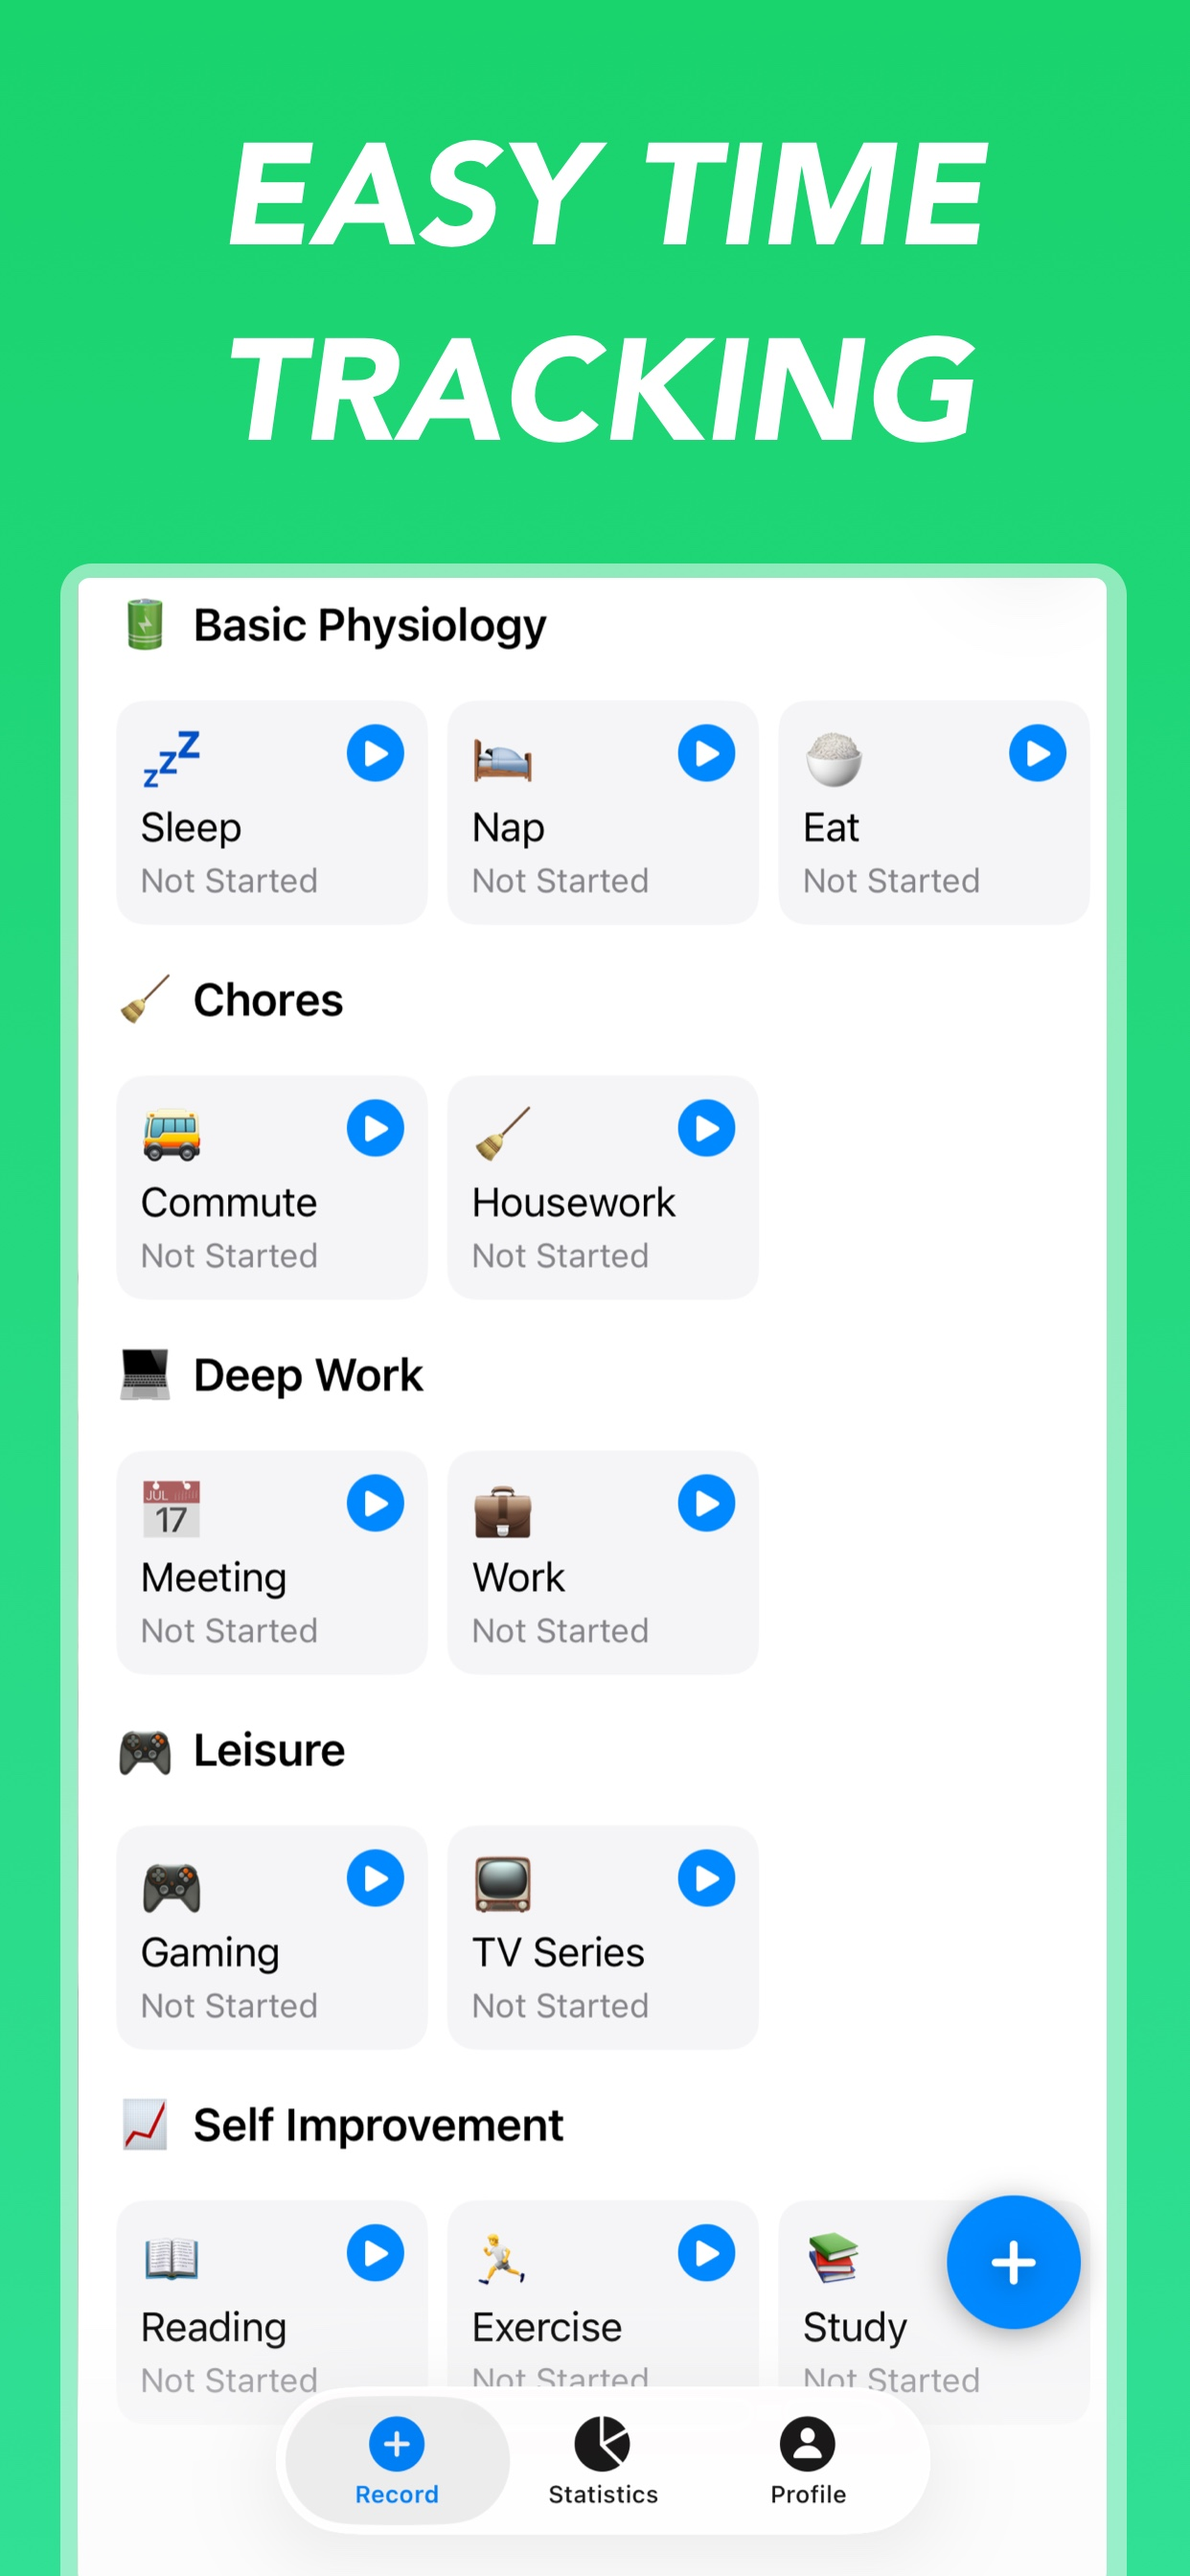
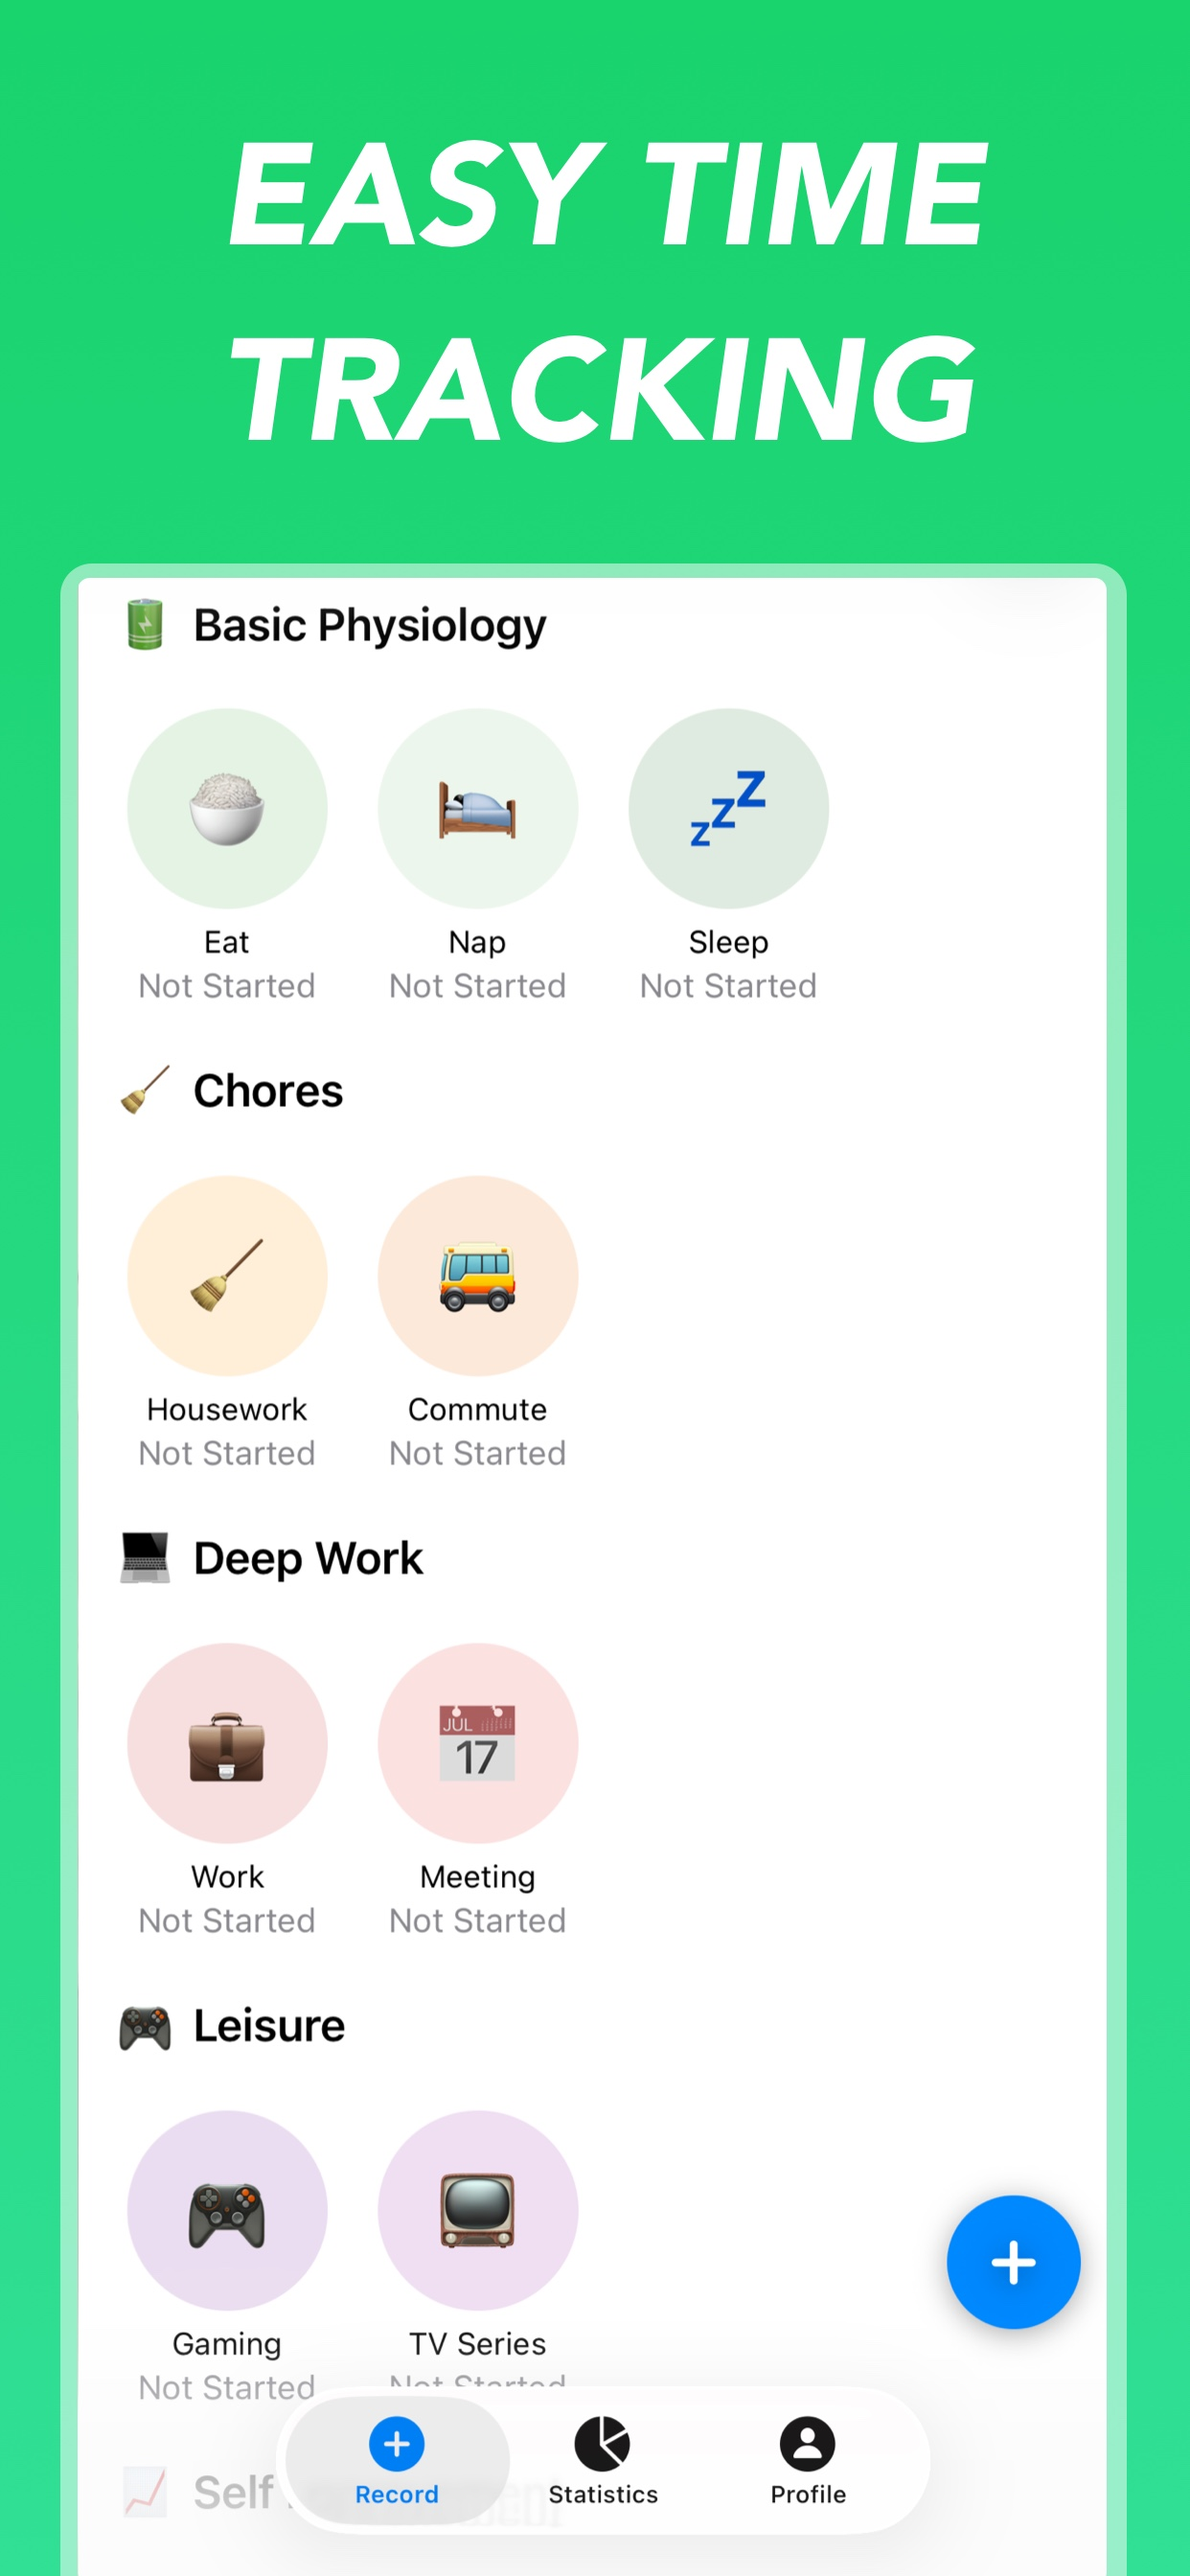
更新TimeLog V1.1.0

diff --git a/script.js b/script.js
@@ -812,7 +812,7 @@ function getTranslations() {
             'app2-download-url': 'https://apps.apple.com/cn/app/简单时间-微光护眼多彩主题全屏时钟/id1486062288',
             'app3-download-url': 'https://apps.apple.com/cn/app/计分板/id6502262077',
             'app4-download-url': 'https://apps.apple.com/app/id6755352189',
-            'footer-copyright': '© 2025 蜗牛的成长工具. 保留所有权利.',
+            'footer-copyright': '© 2026 蜗牛的成长工具. 保留所有权利.',
             
             // App2 页面翻译
             'app2-detail-title': '简时 - 详细介绍',
@@ -980,6 +980,9 @@ function getTranslations() {
             'app4-who-3': '自律者：精准掌控时间分配，实现目标不费力，成为更好的自己',
             'app4-highlights-title': '产品亮点',
             'app4-highlights-desc': '原生开发・无广告无冗余・极简操作流程不用再被时间推着走！立即下载--时光记，从 “记录时间” 到 “掌控时间”，让每一分钟都产生真正的价值～',
+            'app4-update-date-101': '2026年3月28日',
+            'app4-update-title-101': '界面优化',
+            'app4-update-101-desc': '优化了首页的样式，让界面看起来更清爽。',
             'app4-update-date-100': '2026年2月9日',
             'app4-update-title-100': '首次发布',
             'app4-update-100-desc': '时光记正式发布！开始记录你的时间与精力。',
@@ -1143,7 +1146,7 @@ function getTranslations() {
             'app2-download-url': 'https://apps.apple.com/us/app/justyclock-pomodoro-timer/id1486062288',
             'app3-download-url': 'https://apps.apple.com/us/app/scoreboard/id6502262077',
             'app4-download-url': 'https://apps.apple.com/app/id6755352189',
-            'footer-copyright': '© 2025 Snail\'s Growth Tools. All rights reserved.',
+            'footer-copyright': '© 2026 Snail\'s Growth Tools. All rights reserved.',
             
             // App2 page translations
             'app2-detail-title': 'ZenTime - Detailed Introduction',
@@ -1311,6 +1314,9 @@ function getTranslations() {
             'app4-who-3': 'Self-Disciplined People: Precisely control time allocation, achieve goals effortlessly',
             'app4-highlights-title': 'Product Highlights',
             'app4-highlights-desc': 'SwiftUI Native · No Ad · Minimalist Workflow. Stop being pushed by time! Download TimeLog now, move from "tracking time" to "mastering time".',
+            'app4-update-date-101': 'Mar 28, 2026',
+            'app4-update-title-101': 'UI Improvements',
+            'app4-update-101-desc': 'The style of the homepage has been optimized, making the interface look more elegant and clean.',
             'app4-update-date-100': 'Feb 9, 2026',
             'app4-update-title-100': 'Initial Release',
             'app4-update-100-desc': 'TimeLog officially released! Start tracking your time and energy.',

diff --git a/app4.html b/app4.html
@@ -201,6 +201,14 @@
                 <h2 class="section-title" data-i18n="updates-title">最新更新</h2>
                 <div class="update-timeline">
                     <div class="update-item">
+                        <div class="update-version">v1.1.0</div>
+                        <div class="update-date" data-i18n="app4-update-date-101">2026年3月28日</div>
+                        <div class="update-content">
+                            <h4 data-i18n="app4-update-title-101">界面优化</h4>
+                            <p data-i18n="app4-update-101-desc">优化了首页的样式，让界面看起来更清爽。</p>
+                        </div>
+                    </div>
+                    <div class="update-item">
                         <div class="update-version">v1.0.0</div>
                         <div class="update-date" data-i18n="app4-update-date-100">2024年12月29日</div>
                         <div class="update-content">
@@ -220,7 +228,7 @@
     <footer class="footer">
         <div class="container">
             <div class="footer-content">
-                <p data-i18n="footer-copyright">&copy; 2025 蜗牛的成长工具. 保留所有权利.</p>
+                <p data-i18n="footer-copyright">&copy; 2026 蜗牛的成长工具. 保留所有权利.</p>
                 <p class="icp-info">
                     <a href="https://beian.miit.gov.cn/" target="_blank" rel="noopener">陕ICP备2024041843号-1A</a>
                 </p>

diff --git a/app1.html b/app1.html
@@ -281,7 +281,7 @@
     <footer class="footer">
         <div class="container">
             <div class="footer-content">
-                <p data-i18n="footer-copyright">&copy; 2025 蜗牛的成长工具. 保留所有权利.</p>
+                <p data-i18n="footer-copyright">&copy; 2026 蜗牛的成长工具. 保留所有权利.</p>
                 <p class="icp-info">
                     <a href="https://beian.miit.gov.cn/" target="_blank" rel="noopener">陕ICP备2024041843号-1A</a>
                 </p>

diff --git a/privacy-app4.html b/privacy-app4.html
@@ -169,7 +169,7 @@
     <footer class="footer">
         <div class="container">
             <div class="footer-content">
-                <p data-i18n="footer-copyright">&copy; 2025 蜗牛的成长工具. 保留所有权利.</p>
+                <p data-i18n="footer-copyright">&copy; 2026 蜗牛的成长工具. 保留所有权利.</p>
                 <p class="icp-info">
                     <a href="https://beian.miit.gov.cn/" target="_blank" rel="noopener">陕ICP备2024041843号-1A</a>
                 </p>

diff --git a/terms-app4.html b/terms-app4.html
@@ -177,7 +177,7 @@
     <footer class="footer">
         <div class="container">
             <div class="footer-content">
-                <p data-i18n="footer-copyright">&copy; 2025 蜗牛的成长工具. 保留所有权利.</p>
+                <p data-i18n="footer-copyright">&copy; 2026 蜗牛的成长工具. 保留所有权利.</p>
                 <p class="icp-info">
                     <a href="https://beian.miit.gov.cn/" target="_blank" rel="noopener">陕ICP备2024041843号-1A</a>
                 </p>

diff --git a/app2.html b/app2.html
@@ -257,7 +257,7 @@
     <footer class="footer">
         <div class="container">
             <div class="footer-content">
-                <p data-i18n="footer-copyright">&copy; 2025 蜗牛的成长工具. 保留所有权利.</p>
+                <p data-i18n="footer-copyright">&copy; 2026 蜗牛的成长工具. 保留所有权利.</p>
                 <p class="icp-info">
                     <a href="https://beian.miit.gov.cn/" target="_blank" rel="noopener">陕ICP备2024041843号-2</a>
                 </p>

diff --git a/app3.html b/app3.html
@@ -264,7 +264,7 @@
     <footer class="footer">
         <div class="container">
             <div class="footer-content">
-                <p data-i18n="footer-copyright">&copy; 2025 蜗牛的成长工具. 保留所有权利.</p>
+                <p data-i18n="footer-copyright">&copy; 2026 蜗牛的成长工具. 保留所有权利.</p>
                 <p class="icp-info">
                     <a href="https://beian.miit.gov.cn/" target="_blank" rel="noopener">陕ICP备2024041843号-2</a>
                 </p>

diff --git a/index.html b/index.html
@@ -229,7 +229,7 @@
     <footer class="footer">
         <div class="container">
             <div class="footer-content">
-                <p>&copy; 2025 蜗牛的成长工具. 保留所有权利.</p>
+                <p>&copy; 2026 蜗牛的成长工具. 保留所有权利.</p>
                 <p class="icp-info">
                     <a href="https://beian.miit.gov.cn/" target="_blank" rel="noopener">陕ICP备2024041843号-2</a>
                 </p>
